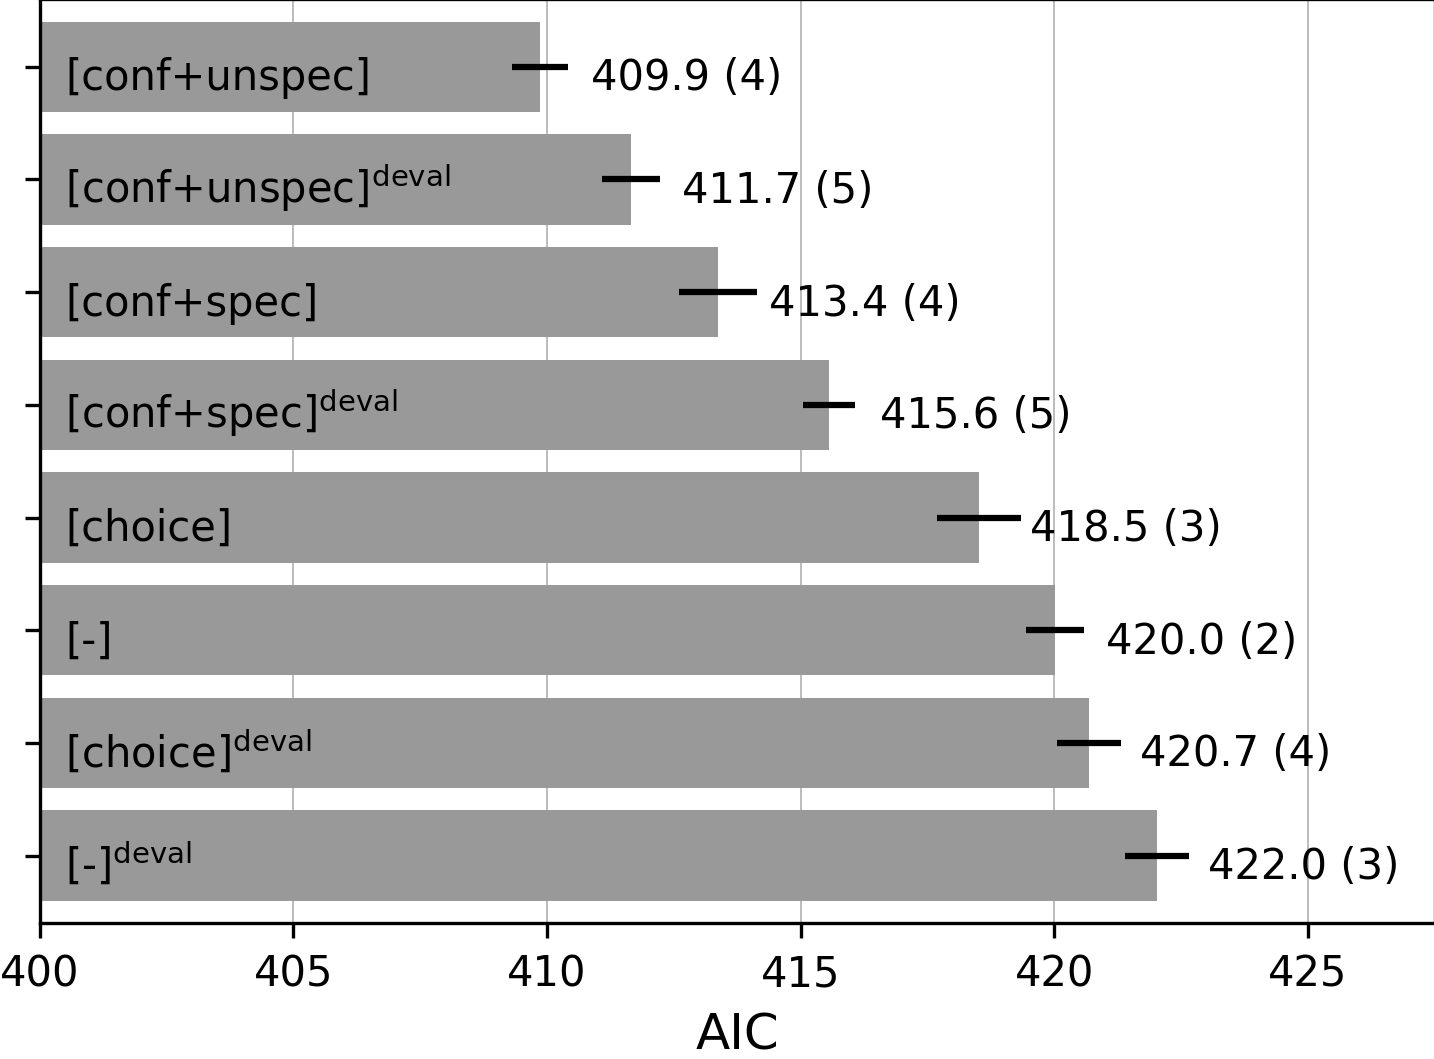
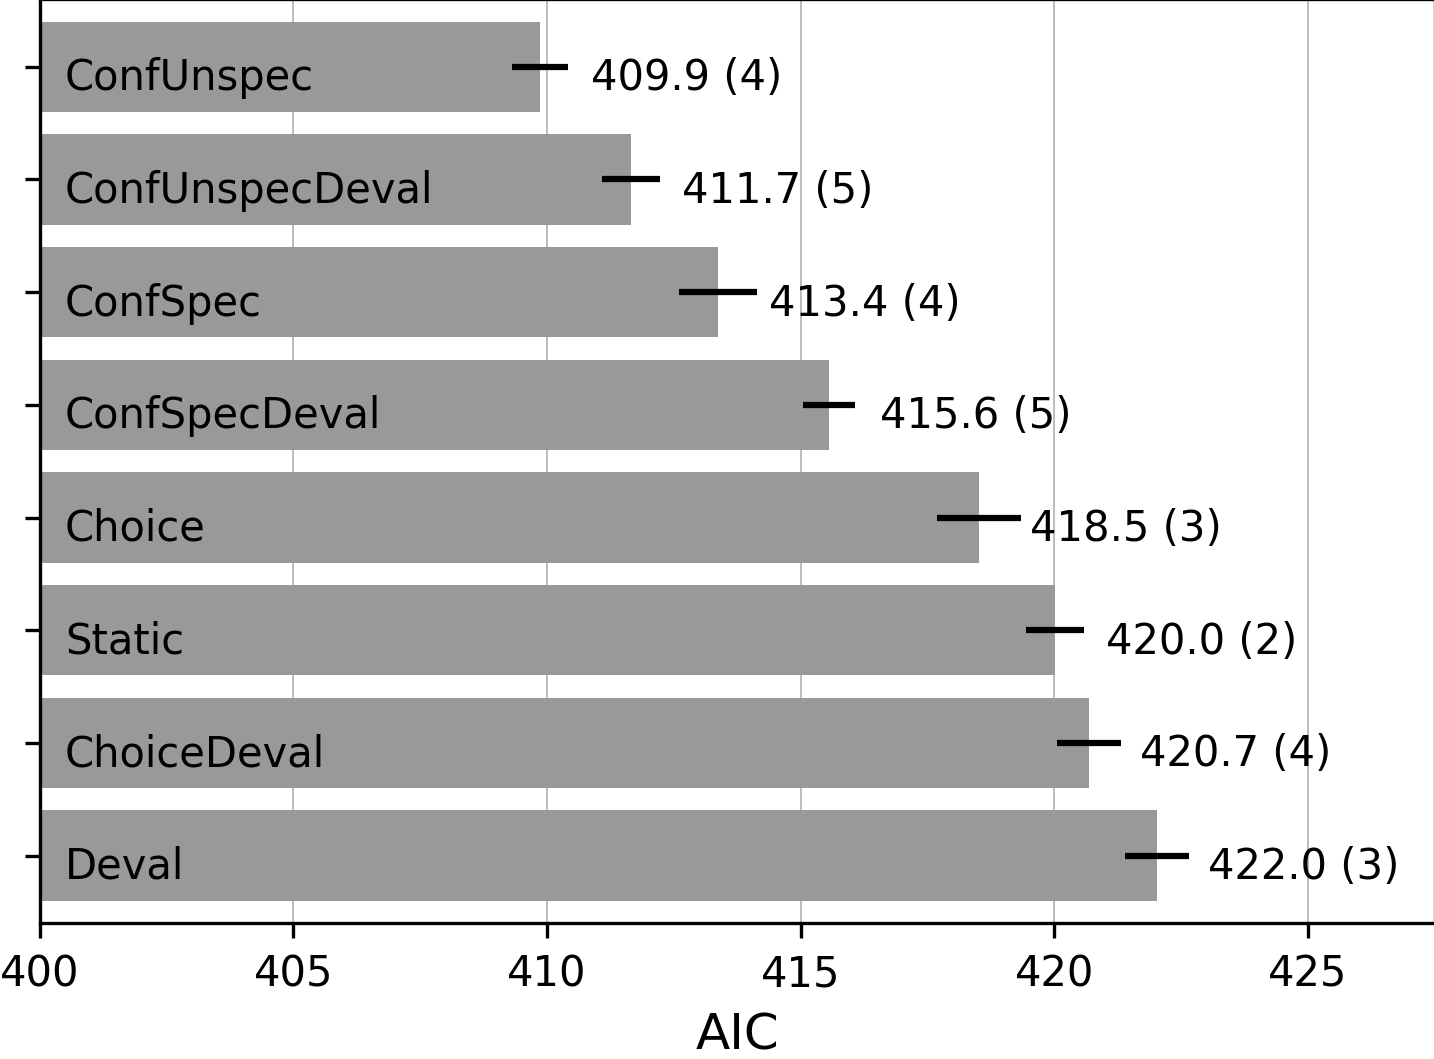
Change model names in AIC plot

diff --git a/plot/plot_aic_choiceconf.py b/plot/plot_aic_choiceconf.py
@@ -27,8 +27,8 @@ nparams = nparams_conf + nparams_choice
 names_conf = ['Static', 'Deval', 'MonoSpec', 'MonoUnspec', 'MonoSpecDeval', 'MonoUnspecDeval']
 names_choice = ['Mono', 'MonoDeval']
 names = names_conf + names_choice
-labels_conf = ['[-]', '[-]$^\mathrm{deval}$', '[conf+spec]', '[conf+unspec]', '[conf+spec]$^\mathrm{deval}$', '[conf+unspec]$^\mathrm{deval}$']
-labels_choice = ['[choice]', '[choice]$^\mathrm{deval}$']
+labels_conf = ['Static', 'Deval', 'ConfSpec', 'ConfUnspec', 'ConfSpecDeval', 'ConfUnspecDeval']
+labels_choice = ['Choice', 'ChoiceDeval']
 labels = labels_conf + labels_choice
 n_models_conf, n_models_choice, n_models = len(labels_conf), len(labels_choice), len(labels)
 n_subjects = 66
